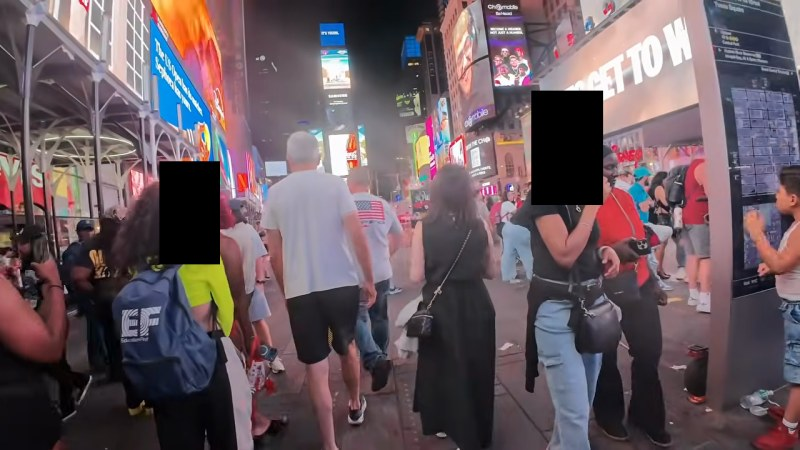
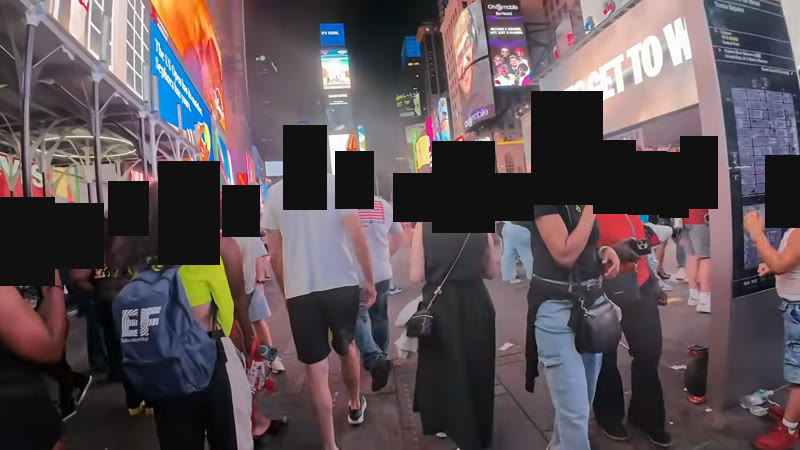
Expand face redaction in the README input preview

diff --git a/samples/readme-demo/README.md b/samples/readme-demo/README.md
@@ -4,7 +4,7 @@ Side-by-side stills in the root README:
 
 | File | Source |
 |------|--------|
-| `frame_input.jpg` | Same still, but **only the two largest YuNet face boxes** are manually blacked out for public README (not a real pipeline input) |
+| `frame_input.jpg` | Same still with manually placed opaque masks over visible faces for the public README preview |
 | `frame_output.jpg` | Full source frame after `open-redact` (`FACE_BLUR_DETECTOR=max`, opaque face boxes on all detections) |
 
 Regenerate:
@@ -19,19 +19,19 @@ open-redact samples/readme-demo/input.mp4 -o samples/readme-demo/output.redacted
 ffmpeg -ss 0.5 -i samples/readme-demo/input.mp4 -frames:v 1 /tmp/in.png
 ffmpeg -ss 0.5 -i samples/readme-demo/output.redacted.mp4 -frames:v 1 /tmp/out.png
 ffmpeg -i /tmp/out.png -vf scale=800:-1 samples/readme-demo/frame_output.jpg -q:v 3
-python3 - <<'PY'
-# Public input preview: black out the two largest face detections only.
-import cv2
-from pathlib import Path
-from agents.ml.face_blur.factory import build_detector
-src = Path("datasets/privacy_redaction/nyc_times_square_45s/frames/nyc_0015.png")
-frame = cv2.imread(str(src))
-boxes = sorted(build_detector("opencv", 0.3).detect(frame), key=lambda b: int(b[2])*int(b[3]), reverse=True)
-for x,y,w,h in (tuple(int(v) for v in b[:4]) for b in boxes[:2]):
-    cv2.rectangle(frame, (max(0,x-int(w*0.15)), max(0,y-int(h*0.2))), (min(frame.shape[1],x+w+int(w*0.15)), min(frame.shape[0],y+h+int(h*0.2))), (0,0,0), -1)
-h,w=frame.shape[:2]; frame=cv2.resize(frame,(800,int(h*800/w)))
-cv2.imwrite("samples/readme-demo/frame_input.jpg", frame, [int(cv2.IMWRITE_JPEG_QUALITY),88])
-PY
+filter='scale=800:450'
+# Coordinates are x:y:width:height on the 800x450 README preview.
+for box in 0:197:55:89 51:203:53:66 108:181:41:55 158:161:62:104 \
+           222:185:38:52 283:125:44:85 335:151:39:58 393:173:39:49 \
+           432:141:63:92 494:173:40:48 531:91:72:114 593:140:43:74 \
+           628:151:39:64 659:152:30:66 680:136:38:73 765:155:35:73; do
+  IFS=: read -r x y w h <<EOF
+$box
+EOF
+  filter="$filter,drawbox=x=$x:y=$y:w=$w:h=$h:color=black:t=fill"
+done
+ffmpeg -hide_banner -loglevel error -y -i "$IMG" -vf "$filter" \
+  -frames:v 1 -map_metadata -1 -q:v 3 -update 1 samples/readme-demo/frame_input.jpg
 ```
 
 Video caches stay gitignored; only the two JPEGs are committed for GitHub rendering.

diff --git a/README.md b/README.md
@@ -81,8 +81,8 @@ pip install -e ".[dev]"
 
 | Scene preview (GitHub) | `open-redact` output |
 |:--:|:--:|
-| ![README preview — two prominent faces pre-redacted for publication](samples/readme-demo/frame_input.jpg) | ![Automated redaction on the original frame](samples/readme-demo/frame_output.jpg) |
-| Two identifiable faces **manually blacked out** so we do not publish them; smaller/distant faces may still appear | Opaque boxes on **all** faces the engine detects |
+| ![README preview with additional opaque masks over visible faces](samples/readme-demo/frame_input.jpg) | ![Automated redaction on the original frame](samples/readme-demo/frame_output.jpg) |
+| Visible faces are manually masked for this preview. Small or obscured faces may remain. | Opaque boxes on **all** faces the engine detects |
 
 Your local runs always read **your unmodified files** — we never upload source video to GitHub. The left image is sanitized for this repo only.
 
